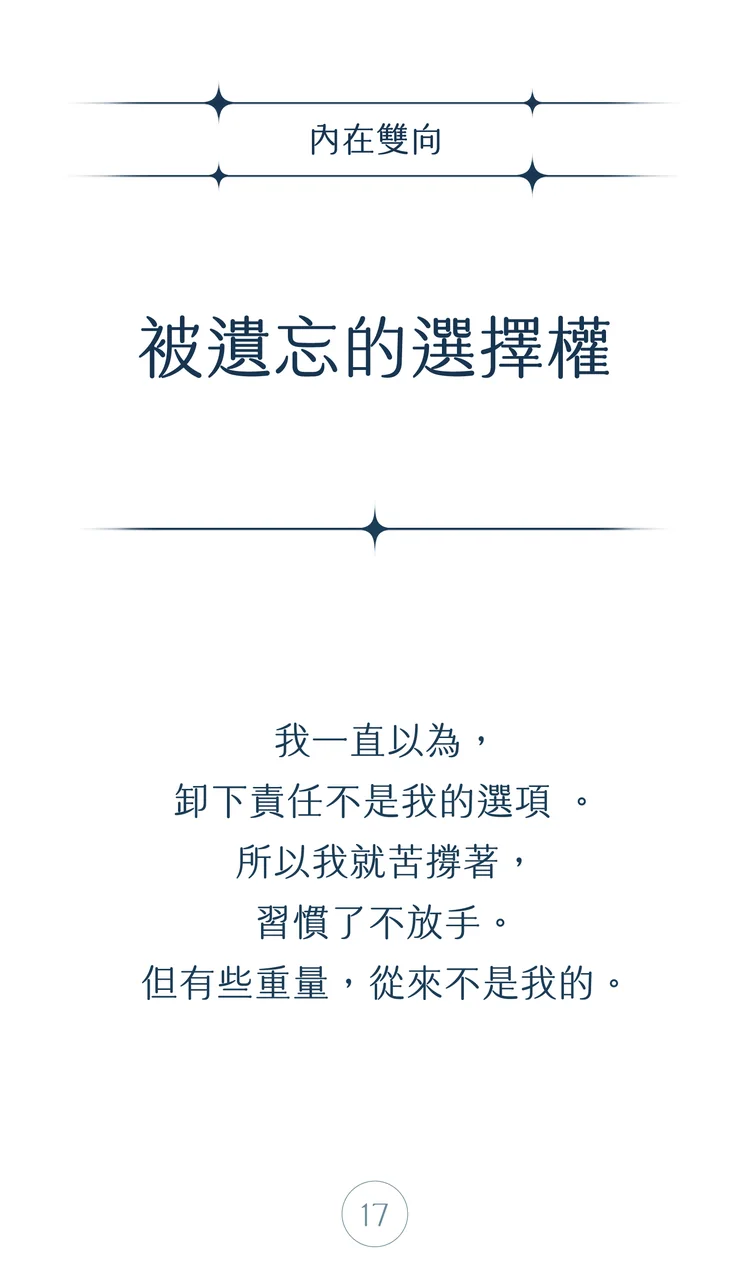
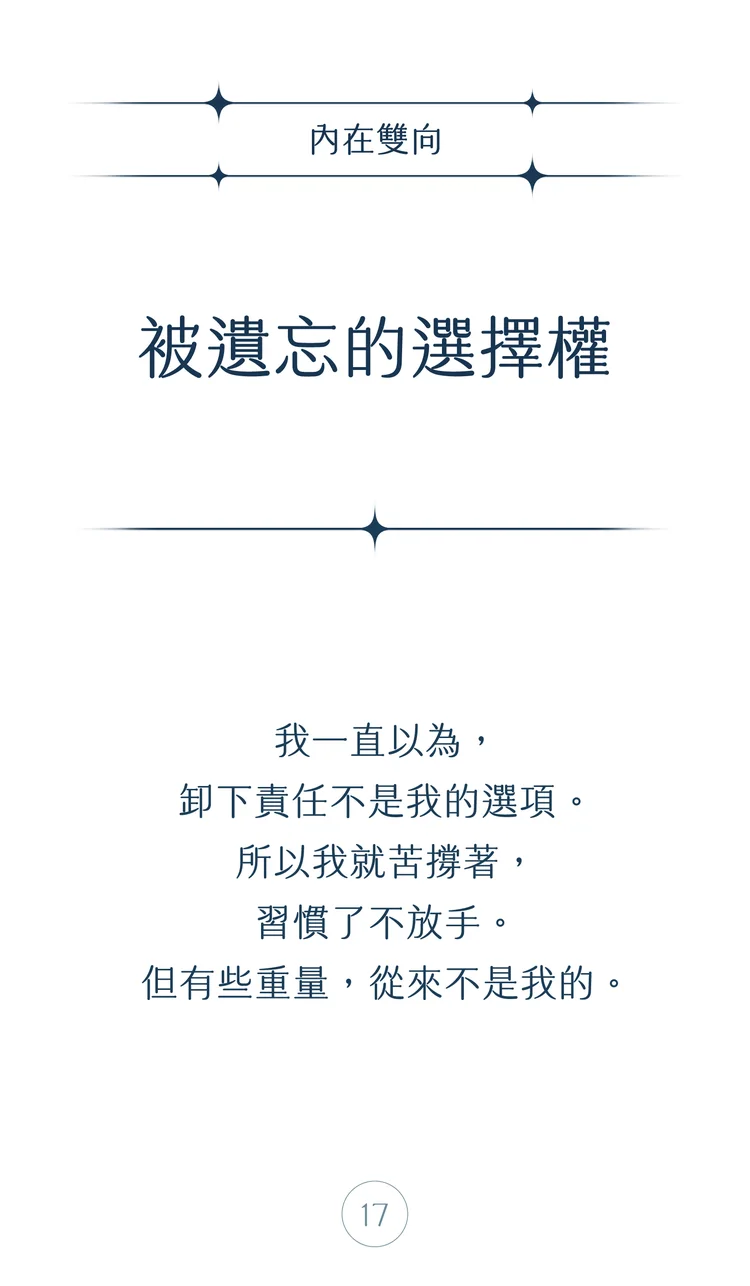
05: 修正牌背 A_17 句號前空白、A_31 行首逗號
Claude-Session: https://claude.ai/code/session_01GEoSnMWAdunEyXztJoiYjY

Changed region(s): [[0.2453, 0.591, 0.736, 0.6532]]

diff --git a/shop.html b/shop.html
@@ -12,7 +12,7 @@
 <link rel="preconnect" href="https://fonts.gstatic.com" crossorigin>
 <link href="https://fonts.googleapis.com/css2?family=Noto+Sans+TC:wght@300;400;700&family=Newsreader:wght@800&family=Huninn&display=swap" rel="stylesheet">
 <link rel="stylesheet" href="./style.css">
-<link rel="stylesheet" href="./shop.css?v=20261103b">
+<link rel="stylesheet" href="./shop.css?v=20261103c">
 </head>
 <body class="shop">
 <div id="cur"></div><div id="cur-ring"></div>
@@ -136,6 +136,6 @@ let mobOpen=false;
 hamBtn.addEventListener('click',()=>{mobOpen=!mobOpen;hamBtn.classList.toggle('open',mobOpen);mobMenu.classList.toggle('open',mobOpen);document.body.style.overflow=mobOpen?'hidden':'';});
 function closeMob(){mobOpen=false;hamBtn.classList.remove('open');mobMenu.classList.remove('open');document.body.style.overflow='';}
 </script>
-<script src="./shop.js?v=20261103b"></script>
+<script src="./shop.js?v=20261103c"></script>
 </body>
 </html>
